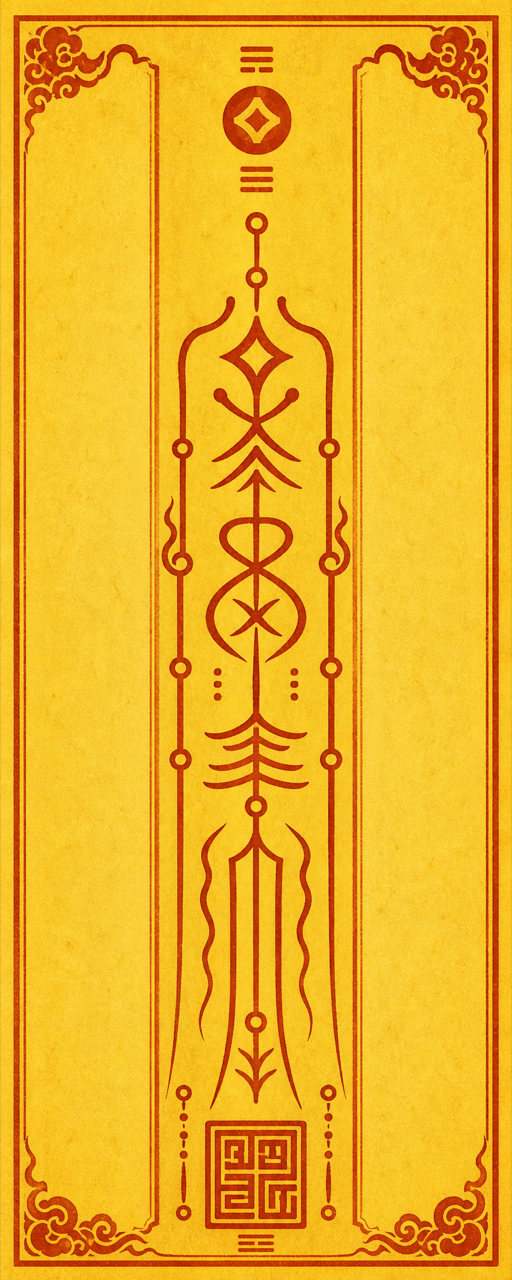
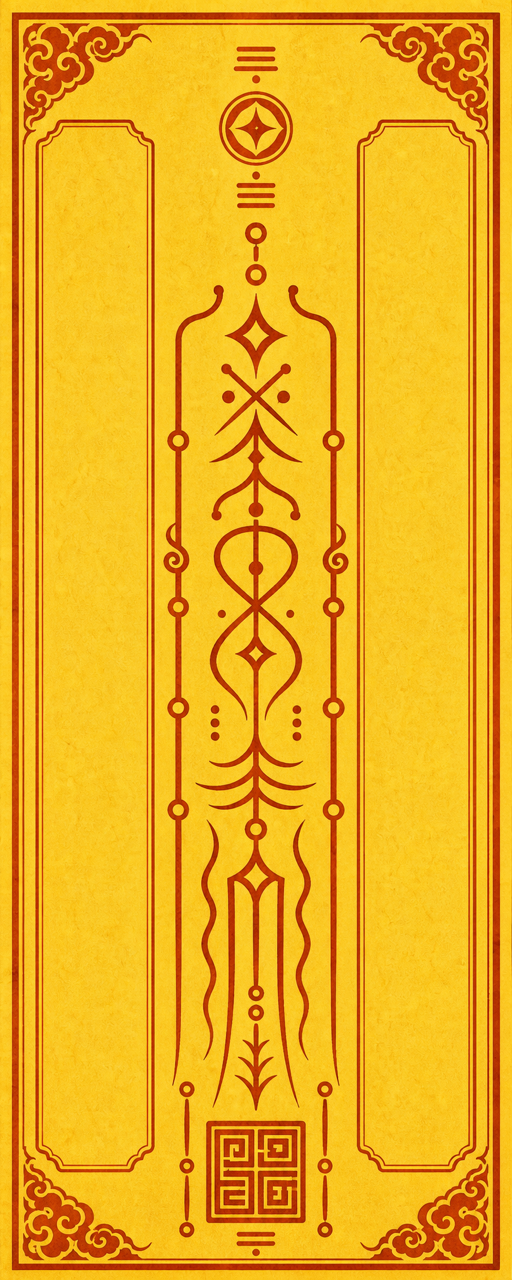
feat(visual-assets): add situation talisman v1 assets

diff --git a/src/styles.css b/src/styles.css
@@ -1444,11 +1444,19 @@ select {
 }
 
 .altar-scene .talisman-visual--situation {
+  --talisman-column-edge: 18%;
   position: absolute;
   top: var(--altar-situation-top);
   left: 50%;
+  width: clamp(45px, 4.8vw, 64px);
+  min-height: 0;
+  aspect-ratio: 2 / 5;
   transform: translateX(-50%);
   transform-origin: center bottom;
+}
+
+.altar-scene .talisman-visual--situation .talisman-visual__template .visual-layer__asset {
+  object-fit: fill;
 }
 
 .altar-scene .talisman-visual--prevention {

diff --git a/src/lib/visualAssetManifest.test.ts b/src/lib/visualAssetManifest.test.ts
@@ -243,6 +243,12 @@ describe("visual asset manifest", () => {
       status: "final",
       transparentBackground: true,
     });
+    expect(VISUAL_ASSET_REPLACEMENT_REGISTRY.talismanSituation).toMatchObject({
+      dimensionPolicy: "exact-source-canvas",
+      sourceCanvas: { height: 1280, width: 512 },
+      status: "final",
+      transparentBackground: false,
+    });
     expect(VISUAL_ASSET_REPLACEMENT_REGISTRY.talismanSituation.doNotBake).toContain("用户执行意图文本");
     expect(VISUAL_ASSET_REPLACEMENT_REGISTRY.incenseCompact).toMatchObject({
       dimensionPolicy: "exact-source-canvas",

diff --git a/src/lib/visualAssets.ts b/src/lib/visualAssets.ts
@@ -220,9 +220,9 @@ export const VISUAL_ASSET_REPLACEMENT_REGISTRY = {
     directory: VISUAL_ASSET_DIRECTORIES.talismanSituation,
     doNotBake: ["用户执行意图文本", "燃烧状态", "完成状态"],
     manifestSlots: ["talisman/situation/template", "talisman/situation/state", "talisman/situation/text"],
-    notes: "正式情境符箓只替换模板图；执行意图继续由 React 文本层覆盖。",
+    notes: "情境符箓 v1 使用正式黄纸朱砂模板；执行意图继续由 React 文本层覆盖。",
     sourceCanvas: { height: 1280, width: 512 },
-    status: "temporary-test",
+    status: "final",
     transparentBackground: false,
   },
   talismanPrevention: {

diff --git a/src/assets/visuals/talisman/situation/README.md b/src/assets/visuals/talisman/situation/README.md
@@ -1,6 +1,6 @@
 # 情境性符箓素材
 
-本目录用于未来放置情境性执行意图符箓模板。
+本目录放置情境性执行意图符箓模板。当前 `template.png` 是情境性符箓 v1 正式模板。
 
 ## 对应插槽
 
@@ -8,16 +8,16 @@
 - `talisman/situation/state`
 - `talisman/situation/text`
 
-## 未来素材
+## 当前素材
 
-- `template.png`：真实符箓背景模板。
+- `template.png`：512×1280 RGB PNG，黄纸朱砂模板，包含固定边框、纸张质感和中央抽象符纹。
 - `state.png`：未来燃烧、消失或禁用状态层素材。
 
 执行意图文字必须保留为 React 文本层覆盖，不烘焙进图片。
 
 ## 接入规则
 
-- 真实符箓必须来自上传好的图片模板，不用 CSS 或 SVG 重画假符箓。
+- 真实符箓必须使用图片模板，不用 CSS 或 SVG 重画假符箓。
 - `template` 和 `state` 可以接入图片，`text` 始终由 React 文本层渲染。
 - 情境性符箓是主祭台启动入口；接入图片不能改变点击后打开开始确认的交互。
 - 第一次确认开始后，情境性符箓会播放约 2 秒燃烧淡出动画；正式素材可以替换状态层细节，但不能改变“动画结束后才开始第一炷香倒计时”的时序。
@@ -27,7 +27,6 @@
 
 ## 当前不做
 
-- `template.png` 是临时测试素材，不是最终符箓设计。
 - 不宣称宗教、玄学或超自然功效。
 - 不用 CSS 或 SVG 重新画假符箓。
 - 不做复杂燃烧粒子、碎纸或正式燃烧素材。

diff --git a/src/assets/visuals/README.md b/src/assets/visuals/README.md
@@ -123,13 +123,15 @@
 
 `incense/stage/` 和 `incense/compact/` 中的 `stick.png`、`ash.png`、`ember.png`、`smoke.png` 是确定性脚本生成的临时线香测试素材，使用 `scripts/generate-stage-incense-assets.mjs` 生成。它们用于验证主祭台和小窗线香图片图层、香数重复渲染和当前炷香进度驱动，不代表最终线香设计。
 
-`talisman/situation/template.png` 和 `talisman/prevention/template.png` 是 AI 生成的临时符箓模板测试素材。它们用于验证主祭台符箓图片模板、左右竖排文本覆盖层和 manifest 引用链路，不代表最终符箓设计，也不宣称宗教、玄学或超自然功效。
+`talisman/situation/template.png` 是 AI 生成的情境符箓 v1 正式模板。它使用黄纸朱砂构图，为左右竖排 React 文本层保留安全区，并保持中央抽象符纹不侵入文字栏；它不宣称宗教、玄学或超自然功效。
+
+`talisman/prevention/template.png` 是 AI 生成的临时符箓模板测试素材。它用于验证预防性符箓图片模板、左右竖排文本覆盖层和 manifest 引用链路，不代表最终符箓设计，也不宣称宗教、玄学或超自然功效。
 
 `altar/background.png` 是 AI 生成的主祭台背景 v1。它用于提供共享桌面、三香炉并排和预防性符箓水平贴边的空间基准。背景图不能自带固定香炉、符箓、线香或状态文字；香炉必须继续由组件独立渲染。
 
 ## 当前不做
 
 - 不导入本轮范围外的正式视觉素材。
-- 不导入正式符箓、小窗香炉或线香素材；当前主祭台香炉以外的 PNG 仍是测试资产。
+- 不导入本轮范围外的正式符箓或线香素材；情境符箓已接入 v1 模板。
 - 不做复杂符箓燃烧、香炉开盖、烟雾或香灰动画。
 - 不把桌面应用图标放进本目录。

diff --git a/docs/ASSET_PIPELINE.md b/docs/ASSET_PIPELINE.md
@@ -1,6 +1,6 @@
 # 视觉素材接入管线
 
-本文件约定未来真实符箓、香炉、线香素材如何进入项目。当前版本已接入主祭台背景 v1 和主祭台香炉 v1，并保留符箓模板、小窗 Q 版香炉和主祭台线香的临时测试 PNG，用于验证素材链路；情境符箓已有最小燃烧淡出动画，其他复杂动画暂不做。素材目录内的执行清单见 `src/assets/visuals/README.md`，正式素材职责边界见 `docs/VISUAL_ASSET_BOUNDARIES.md`，正式替换步骤见 `docs/VISUAL_ASSET_REPLACEMENT_CHECKLIST.md`。
+本文件约定未来真实符箓、香炉、线香素材如何进入项目。当前版本已接入主祭台背景 v1、主祭台香炉 v1 和情境符箓 v1；情境符箓已有最小燃烧淡出动画，其他复杂动画暂不做。素材目录内的执行清单见 `src/assets/visuals/README.md`，正式素材职责边界见 `docs/VISUAL_ASSET_BOUNDARIES.md`，正式替换步骤见 `docs/VISUAL_ASSET_REPLACEMENT_CHECKLIST.md`。
 
 ## 目录结构
 

diff --git a/docs/VISUAL_ASSET_REPLACEMENT_CHECKLIST.md b/docs/VISUAL_ASSET_REPLACEMENT_CHECKLIST.md
@@ -55,7 +55,7 @@ npm run check:visual-assets
 | `altarBackground` | 主祭台背景 v1 | `src/assets/visuals/altar` | 桌面前沿和三香炉水平摆放基准 |
 | `censerStage` | 主祭台香炉 v1 | `src/assets/visuals/censer/stage` | 香炉底部中心点和盖子闭合位置 |
 | `censerCompact` | 临时测试素材 | `src/assets/visuals/censer/compact` | 小窗香炉底部中心点和并排槽位中心 |
-| `talismanSituation` | 临时测试素材 | `src/assets/visuals/talisman/situation` | 左右竖排文字栏和中央符文分区 |
+| `talismanSituation` | 情境符箓 v1 | `src/assets/visuals/talisman/situation` | 左右竖排文字栏和中央符文分区 |
 | `talismanPrevention` | 临时测试素材 | `src/assets/visuals/talisman/prevention` | 左右竖排文字栏和中央符文分区 |
 | `incenseStage` | 临时测试素材 | `src/assets/visuals/incense/stage` | 香炉炉口中心线和左到右燃烧顺序 |
 | `incenseCompact` | 临时测试素材 | `src/assets/visuals/incense/compact` | 小窗香炉炉口中心线和左到右燃烧顺序 |